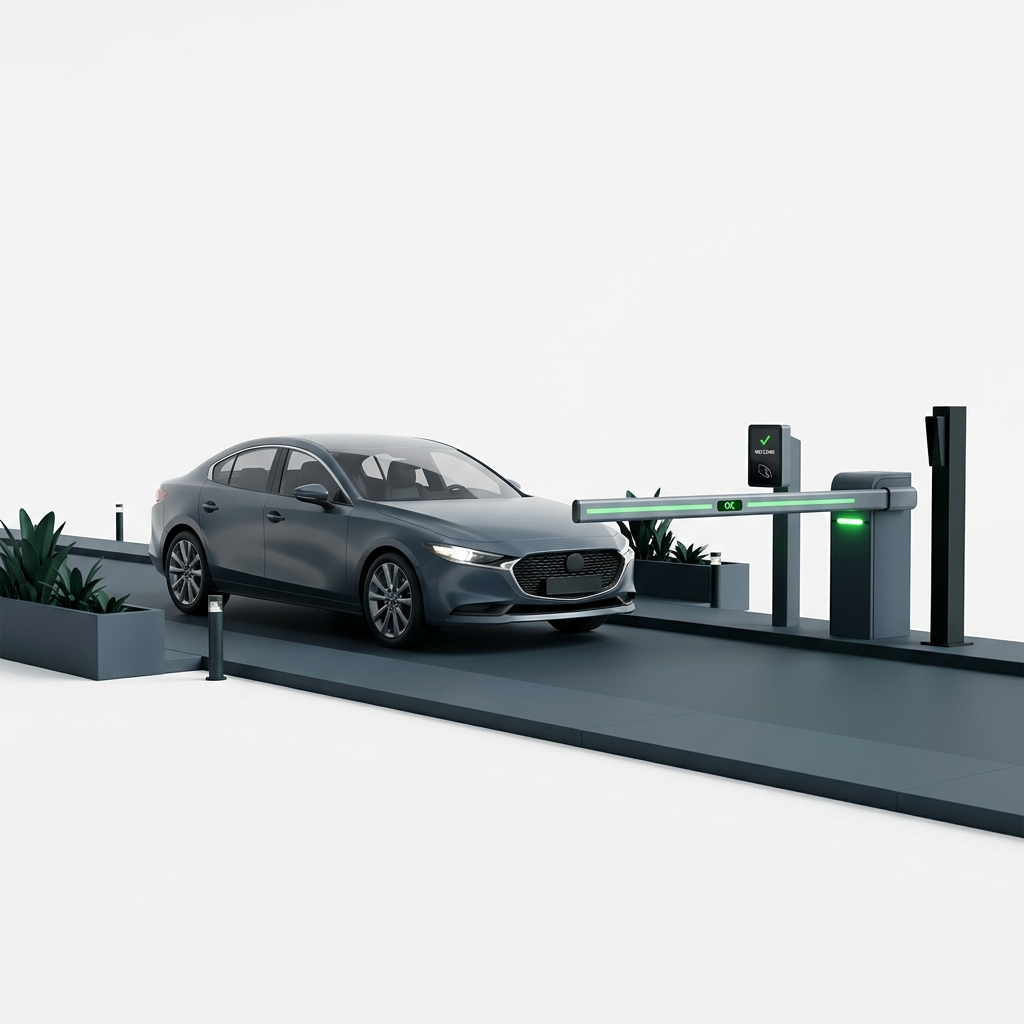
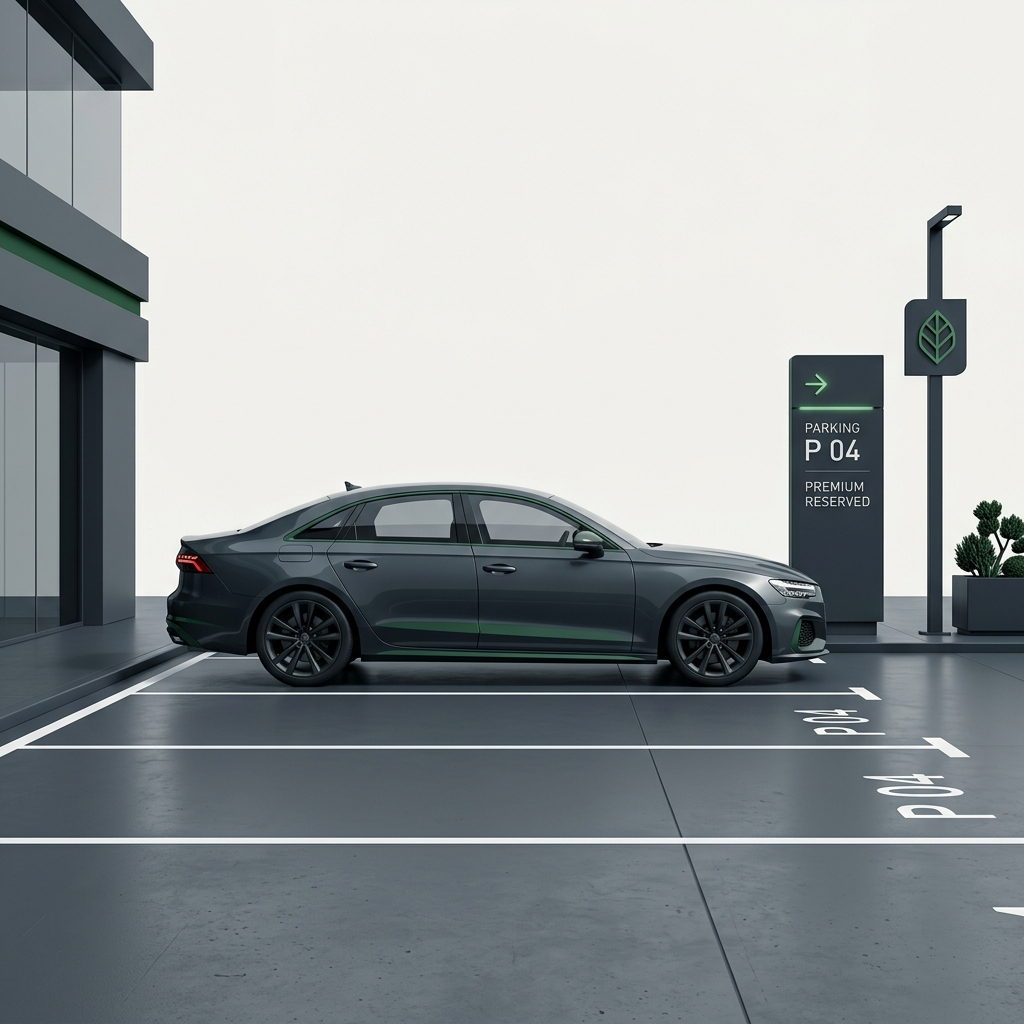
feat: replace how-it-works step 3 and 4 with new unique illustrations

diff --git a/frontend/src/components/continuity/ConfidenceLearnMoreModal.tsx b/frontend/src/components/continuity/ConfidenceLearnMoreModal.tsx
@@ -32,19 +32,19 @@ export default function ConfidenceLearnMoreModal({
   const getLevelIcon = (level: AvailabilityConfidence) => {
     switch (level) {
       case 'HIGH':
-        return <CheckCircle2 className="h-5 w-5 text-emerald-600 shrink-0" />;
+        return <CheckCircle2 className="h-4 w-4 text-emerald-600 shrink-0" />;
       case 'MEDIUM':
-        return <Info className="h-5 w-5 text-amber-600 shrink-0" />;
+        return <Info className="h-4 w-4 text-amber-600 shrink-0" />;
       case 'LOW':
-        return <AlertTriangle className="h-5 w-5 text-orange-600 shrink-0" />;
+        return <AlertTriangle className="h-4 w-4 text-orange-600 shrink-0" />;
       case 'UNDER_REVIEW':
-        return <AlertCircle className="h-5 w-5 text-red-600 shrink-0" />;
+        return <AlertCircle className="h-4 w-4 text-red-600 shrink-0" />;
     }
   };
 
   return (
     <div
-      className="fixed inset-0 z-50 flex items-center justify-center p-4 bg-slate-950/60 backdrop-blur-md animate-fadeIn"
+      className="fixed inset-0 z-50 flex items-center justify-center p-4 bg-slate-900/50 animate-fadeIn"
       role="dialog"
       aria-modal="true"
       aria-labelledby="confidence-modal-title"
@@ -52,25 +52,22 @@ export default function ConfidenceLearnMoreModal({
         if (e.target === e.currentTarget) onClose();
       }}
     >
-      <div className="relative w-full max-w-2xl max-h-[90vh] flex flex-col overflow-hidden rounded-3xl border border-slate-200/90 bg-white shadow-2xl transition-all">
+      <div className="relative w-full max-w-2xl max-h-[90vh] flex flex-col overflow-hidden rounded-lg bg-white shadow-xl">
         {/* Header */}
-        <div className="flex items-center justify-between border-b border-slate-100 px-6 py-5">
-          <div className="flex items-center gap-3">
-            <div className="flex h-10 w-10 items-center justify-center rounded-2xl bg-emerald-50 text-emerald-600 ring-1 ring-emerald-200/60">
-              <ShieldCheck className="h-5 w-5" />
-            </div>
+        <div className="flex items-center justify-between border-b border-slate-200 px-5 py-4">
+          <div className="flex items-center gap-2.5">
+            <ShieldCheck className="h-5 w-5 text-slate-700" />
             <div>
-              <h2 id="confidence-modal-title" className="text-lg font-extrabold text-slate-900">
-                Availability Confidence
+              <h2 id="confidence-modal-title" className="text-base font-semibold text-slate-900">
+                Availability Confidence Verification
               </h2>
-              <p className="text-xs text-slate-500">How Spotit verifies parking spot reliability</p>
             </div>
           </div>
 
           <button
             type="button"
             onClick={onClose}
-            className="flex h-8 w-8 items-center justify-center rounded-full bg-slate-100 text-slate-500 hover:bg-slate-200 hover:text-slate-800 transition-colors"
+            className="flex h-7 w-7 items-center justify-center rounded-md text-slate-400 hover:bg-slate-100 hover:text-slate-600 transition-colors"
             aria-label="Close modal"
           >
             <X className="h-4 w-4" />
@@ -78,30 +75,30 @@ export default function ConfidenceLearnMoreModal({
         </div>
 
         {/* Scrollable Body */}
-        <div className="flex-1 overflow-y-auto p-6 space-y-6 pm-scrollbar-none">
+        <div className="flex-1 overflow-y-auto p-5 space-y-5 text-sm">
           {/* Core Rule Explanation Card */}
-          <div className="rounded-2xl border border-blue-100 bg-blue-50/80 p-4">
-            <div className="flex items-start gap-3">
-              <Info className="h-5 w-5 text-blue-600 shrink-0 mt-0.5" />
+          <div className="rounded-md border border-slate-200 bg-slate-50 p-4">
+            <div className="flex items-start gap-2.5">
+              <Info className="h-4 w-4 text-slate-500 shrink-0 mt-0.5" />
               <div>
-                <p className="text-sm font-bold text-blue-950">How Confidence is Computed</p>
-                <p className="mt-1 text-xs text-blue-800 leading-relaxed">
+                <p className="font-medium text-slate-900">Computation Methodology</p>
+                <p className="mt-1 text-slate-600">
                   {CONFIDENCE_TOOLTIP_TEXT}
                 </p>
-                <p className="mt-2 text-[11px] text-blue-700/90 font-medium">
-                  We deliberately refrain from claiming &ldquo;real-time&rdquo; or &ldquo;live telemetry&rdquo; unless physical automated hardware is deployed. Instead, our Continuity Engine dynamically scores each location based on authentic driver experiences.
+                <p className="mt-2 text-xs text-slate-500">
+                  Note: The platform refrains from claiming live telemetry without physical automated hardware. The Continuity Engine scores each location algorithmically based on verifiable driver interactions and operator inputs.
                 </p>
               </div>
             </div>
           </div>
 
           {/* 4 State Cards */}
-          <div className="space-y-4">
-            <h3 className="text-xs font-bold uppercase tracking-wider text-slate-500">
-              Confidence States &amp; What They Mean
+          <div>
+            <h3 className="text-xs font-semibold uppercase tracking-wide text-slate-500 mb-3">
+              Confidence States Reference
             </h3>
 
-            <div className="grid gap-3.5 sm:grid-cols-1">
+            <div className="grid gap-3 sm:grid-cols-1">
               {levels.map((lvl) => {
                 const detail = CONFIDENCE_DETAILS[lvl];
                 const isSelected = initialHighlight === lvl;
@@ -109,35 +106,29 @@ export default function ConfidenceLearnMoreModal({
                 return (
                   <div
                     key={lvl}
-                    className={`rounded-2xl border p-4.5 transition-all ${
+                    className={`rounded-md border p-4 ${
                       isSelected
-                        ? 'border-emerald-500 bg-emerald-50/30 ring-2 ring-emerald-500/20'
-                        : 'border-slate-200 bg-slate-50/50 hover:bg-white hover:border-slate-300'
+                        ? 'border-slate-400 bg-slate-50'
+                        : 'border-slate-200 bg-white'
                     }`}
                   >
                     <div className="flex items-center justify-between gap-3">
-                      <div className="flex items-center gap-2.5">
+                      <div className="flex items-center gap-2">
                         {getLevelIcon(lvl)}
-                        <span className="text-sm font-bold text-slate-900">{detail.title}</span>
+                        <span className="font-semibold text-slate-900">{detail.title}</span>
                       </div>
-                      <span
-                        className={`inline-flex items-center rounded-full px-2.5 py-0.5 text-xs font-bold ${detail.styles}`}
-                      >
+                      <span className="inline-flex items-center rounded bg-slate-100 px-2 py-0.5 text-xs font-medium text-slate-700 border border-slate-200">
                         {detail.badgeShort}
                       </span>
                     </div>
 
-                    <p className="mt-2 text-xs font-medium text-slate-700 leading-relaxed">
+                    <p className="mt-2 text-slate-600">
                       {detail.meaning}
                     </p>
 
-                    {/* Example Box */}
-                    <div className="mt-3 rounded-xl bg-white border border-slate-200/80 p-3 shadow-xs">
-                      <p className="text-[11px] font-semibold text-slate-500 uppercase tracking-wider">
-                        Real-world Example:
-                      </p>
-                      <p className="mt-0.5 text-xs text-slate-800 italic">
-                        &ldquo;{detail.example}&rdquo;
+                    <div className="mt-3 border-t border-slate-100 pt-3">
+                      <p className="text-xs text-slate-500">
+                        <span className="font-medium">Example case:</span> {detail.example}
                       </p>
                     </div>
                   </div>
@@ -147,13 +138,13 @@ export default function ConfidenceLearnMoreModal({
           </div>
 
           {/* Last Updated Time Explanation */}
-          <div className="rounded-2xl border border-slate-200 bg-slate-50 p-4">
-            <div className="flex items-start gap-3">
-              <Clock className="h-5 w-5 text-slate-600 shrink-0 mt-0.5" />
+          <div className="rounded-md border border-slate-200 bg-white p-4">
+            <div className="flex items-start gap-2.5">
+              <Clock className="h-4 w-4 text-slate-500 shrink-0 mt-0.5" />
               <div>
-                <p className="text-xs font-bold text-slate-900">Last Updated Timestamp</p>
-                <p className="mt-1 text-xs text-slate-600 leading-relaxed">
-                  Every parking location displays a relative timestamp (such as <em>&ldquo;Last updated: 5 minutes ago&rdquo;</em>). This reflects the last recorded capacity change, completed driver checkout, or owner update received by the platform.
+                <p className="font-medium text-slate-900">Last Updated Timestamp</p>
+                <p className="mt-1 text-slate-600">
+                  Relative timestamps (e.g., "Last updated: 5 minutes ago") reflect the last recorded capacity change, completed checkout, or operator system update.
                 </p>
               </div>
             </div>
@@ -161,13 +152,13 @@ export default function ConfidenceLearnMoreModal({
         </div>
 
         {/* Footer */}
-        <div className="border-t border-slate-100 bg-slate-50/80 px-6 py-4 flex items-center justify-end">
+        <div className="border-t border-slate-200 px-5 py-4 flex items-center justify-end bg-slate-50">
           <button
             type="button"
             onClick={onClose}
-            className="rounded-xl bg-slate-900 px-5 py-2.5 text-xs font-bold text-white hover:bg-slate-800 transition-colors"
+            className="rounded-md bg-white border border-slate-300 px-4 py-2 text-sm font-medium text-slate-700 hover:bg-slate-50 shadow-sm transition-colors"
           >
-            Got it
+            Close
           </button>
         </div>
       </div>
